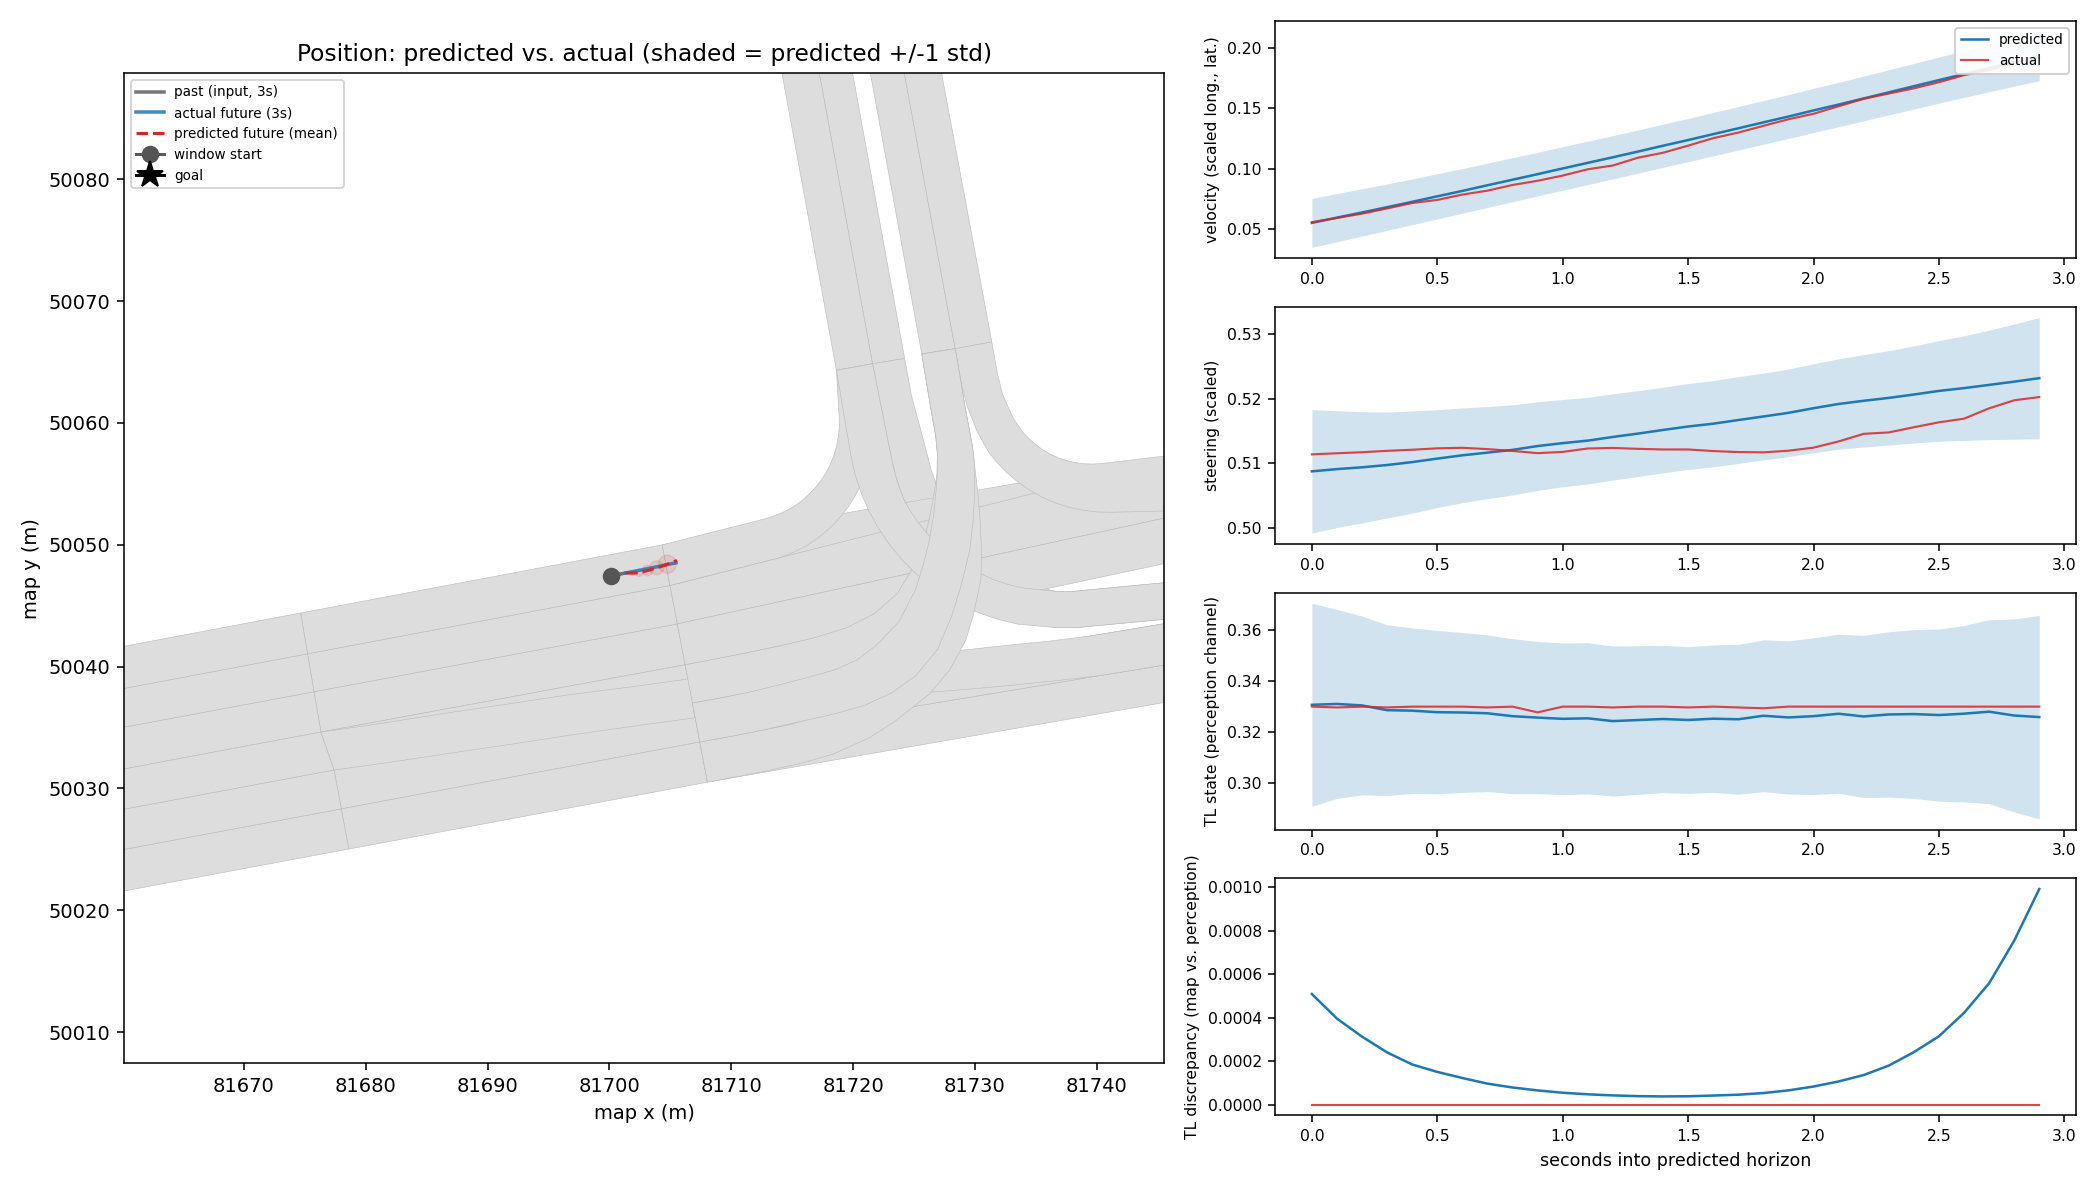
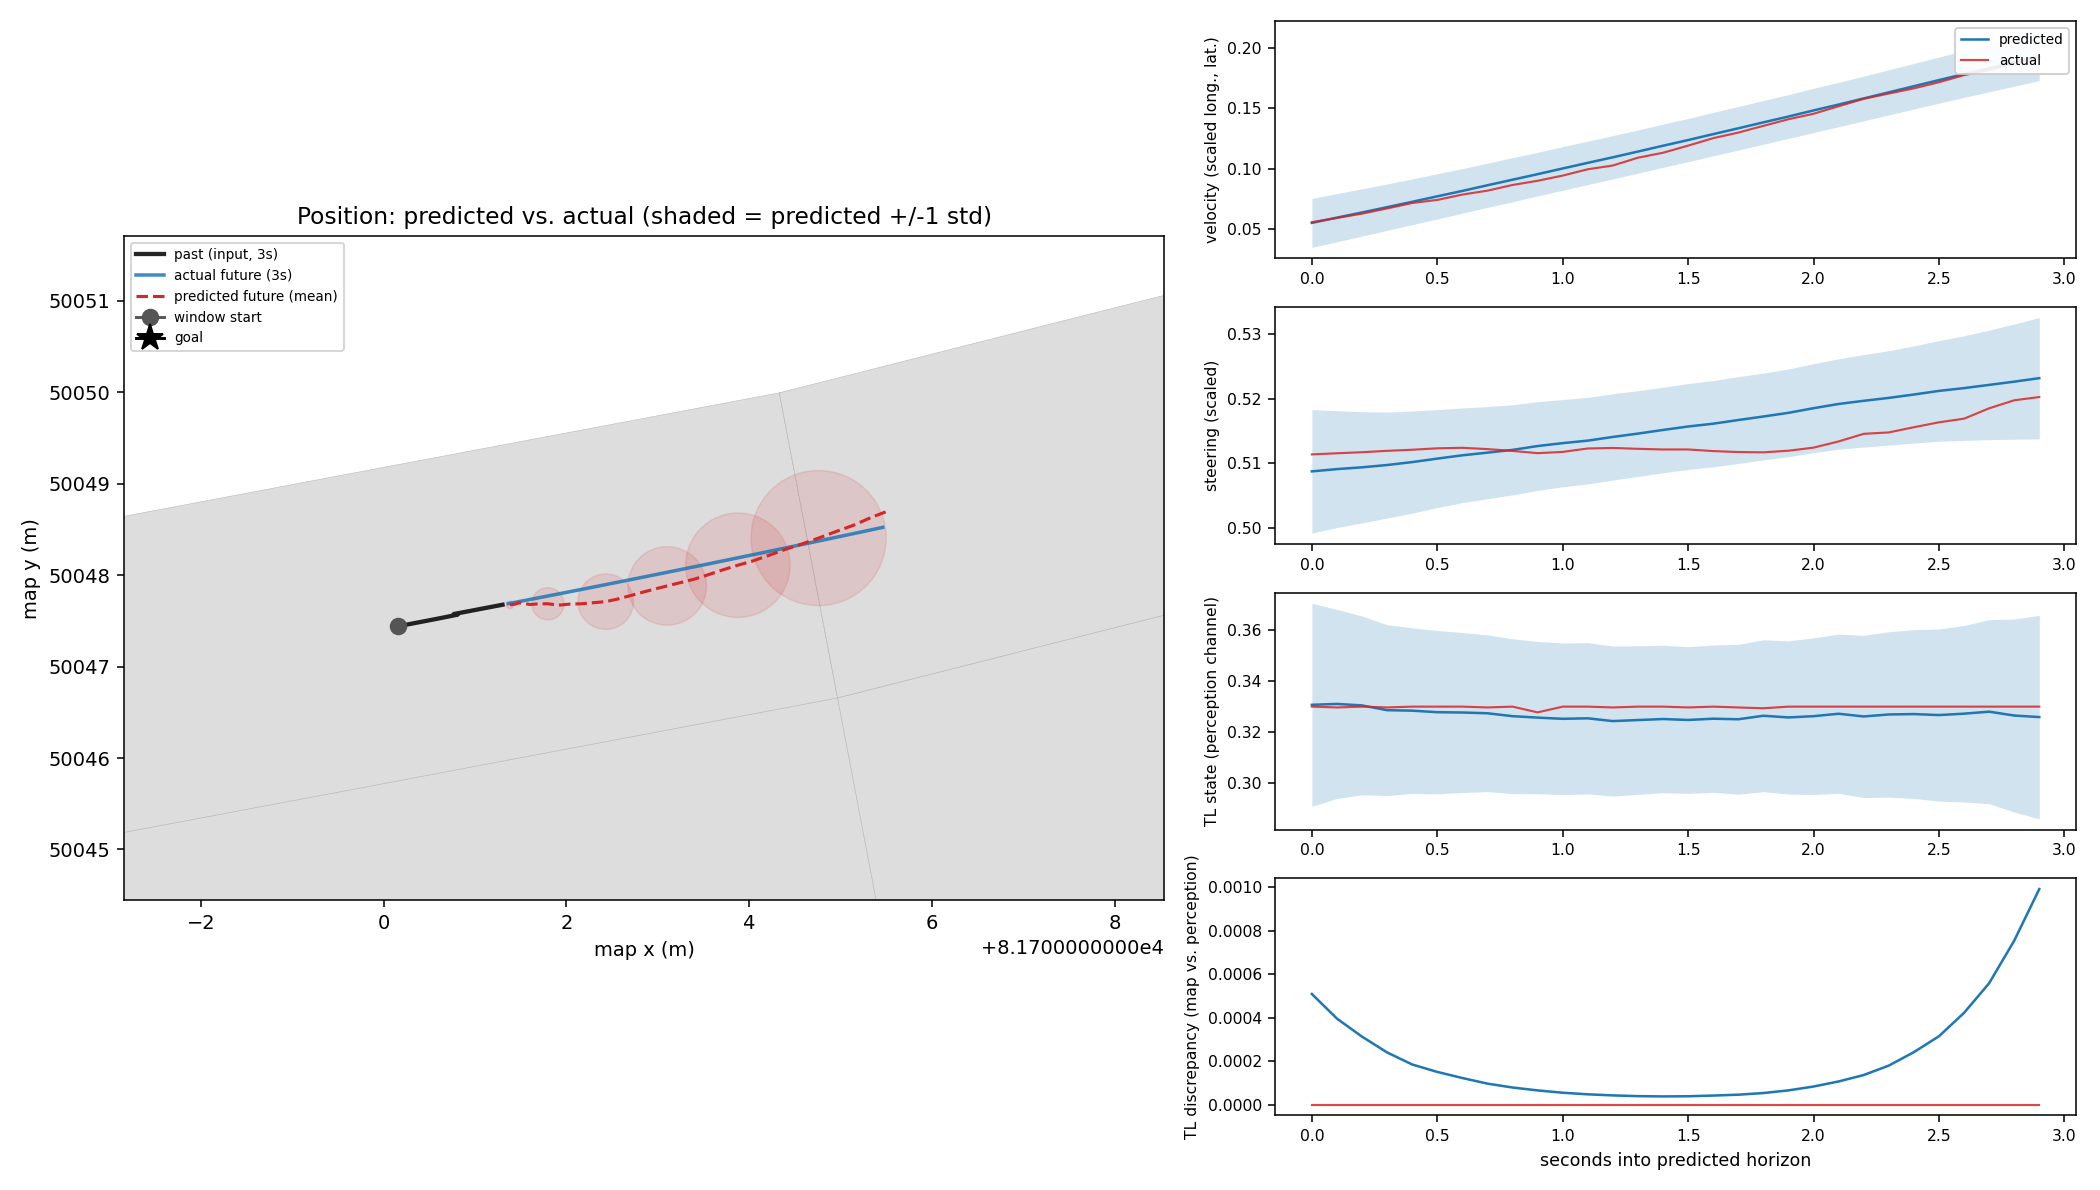
docs: presentation slide-review fixes + deck story walkthrough
Title restored to the AI-safety-in-AVs framing (subtitle carries the
calibrated-confidence/lead-time angle instead of replacing the core topic).
Slide 5's epistemic-stance language was scoped too broadly -- fixed to say
precisely that map-anchoring applies to the two TL channels specifically,
not the whole model, and that using an HD map isn't itself the novel part.
Slides 9/10 examples updated to the regenerated (non-stale) plots.

STORY.md is new: a slide-by-slide narrative walkthrough for reviewing deck
flow at a high level before diving into per-slide detail.

Claude-Session: https://claude.ai/code/session_01F1mThz1oe6QECncKcuUsfL

diff --git a/presentation/STORY.md b/presentation/STORY.md
@@ -1,0 +1,94 @@
+# Presentation story, slide by slide
+
+A narrative walkthrough of the deck's flow, for reviewing structure before diving
+into per-slide detail (`points.txt`/`notes.txt` in each `slide_NN_*/` folder).
+Not slide content itself — this is the "why does slide N lead to slide N+1" layer.
+
+**01 — Title.** Same core framing as the last presentation: AI safety in AVs via
+digital twins. Subtitle signals what's new this cycle (calibrated confidence +
+lead time), not a change of subject.
+
+**02 — Motivation.** Opens with a deliberately narrow claim: our prior T-ITS
+paper proved the twin CAN detect faults, accurately. This slide argues that
+accuracy alone doesn't answer whether the detector should be *trusted* — sets
+up the reframe from "can it detect" to "can it be verified."
+
+**03 — Literature gap.** Places the work in context: fault detection (mature,
+including our own prior paper) and trajectory prediction (mature, fast-moving)
+are both crowded. The underserved combination — a mechanistic map-grounded
+signal + a distribution-free calibration guarantee + an actual lead-time
+measurement — is the gap. Sets up why this is a genuine contribution, not a
+rerun of the paper.
+
+**04 — Problem statement.** The thesis statement itself. Explicitly separates
+what's banked (detection, from the paper) from what's new (calibrated
+confidence, lead time, severity). Introduces the two-arm design and flags
+honestly that Arm B isn't collected yet — a limitation stated up front, not
+discovered later.
+
+**05 — Framework.** The mechanism: belief divergence under a map-grounded
+prior, with the "epistemic stance" language explaining *why* this counts as a
+legitimate check and not the model grading its own homework. This is the
+slide flagged for a clarity pass (see your question 4) — right now it risks
+implying the whole model is map-anchored when really only the TL channel is.
+
+**06 — Digital twin (architecture).** The concrete ST-GAT model: 14 input
+features, the two new output heads added this session, and the two real bugs
+fixed (entity-collapse, missing heads). This is where "the mechanism from
+slide 5 is actually implemented" lands.
+
+**07 — Experimental platform.** AWSIM + Autoware, largely unchanged from
+before — establishes this runs on the real production stack, not a toy
+planner. Updates the goal count (26, not 3) and drops the retired obstacle-
+placement framing.
+
+**08 — Data collection.** What's actually been collected: the 26-goal nominal
+baseline and the 8 fault campaigns, plus this session's zone-coverage
+expansion (3→26 goals, analysis-only, the thing that unlocked slide 11's
+tightened guarantee). Also plants the negative-evidence-subtype distinction
+(tl_s3/s4 vs. tl_s2/ramp) that pays off in slide 11.
+
+**09 — Fault plans and impacts.** The verification step: did each fault
+mechanism actually change the signal it targets, on the actual driven
+trajectory. (Flagged for regeneration — see your question 5; the example
+plots were stale, generated against a superseded data collection run.)
+
+**10 — Model predictions.** What the trained model's output actually looks
+like: a real predicted trajectory + uncertainty on the map, plus the other
+predicted channels. This is the "does the model work at all" sanity check
+before slide 11 asks "does it work under faults." (Map sizing fixed this
+session — see your question 6.)
+
+**11 — How the model reacts to faults.** The payload slide: discriminability
+findings, the calibration-tightening result, and detection-rate/lead-time
+numbers. Framed deliberately as supporting evidence, not a single headline
+number — this is the slide most directly shaped by your pushback on lead time
+not being the centerpiece. (Fatal-moment definition flagged for rework — see
+your question 7; current lead-time numbers are likely inflated.)
+
+**12 — Interpretation.** Steps back from the numbers to state directly what
+they do and don't support — specifically, that the discriminability finding is
+a refinement of an existing claim, not a new contribution, and that lead time
+should stay a supporting axis. This slide exists specifically to pre-empt
+over-claiming from slide 11's results.
+
+**13 — Next steps.** What's left given no new data collection for now: the
+severity axis, the CUSUM-search extension, the open TL-fault data gap, and
+the active-rectification idea as an explicit scope question for you, not a
+plan. Ends on two real questions for you, not rhetorical ones.
+
+---
+
+## Open items from your last review (not yet reflected above)
+
+- Title: fixed (back to the AI-safety-in-AVs framing, subtitle carries the new angle).
+- Slide 5's "epistemic stance" language: needs a precision pass — see the
+  separate answer to your question 4.
+- Slide 9's example plots: being regenerated against current (non-stale) trial
+  data.
+- Slide 10's example plot: fixed (map now scales to the window's own extent).
+- Slide 11's lead-time numbers: likely need a redefined fatal-moment anchor
+  before they're trustworthy — see the separate answer to your question 7.
+- Whether lead time is paper-shaped on its own, and whether "closing the loop"
+  should shape the current experimental design: see the separate answer to
+  your question 3 — recommend NOT redesigning the current setup for it.
